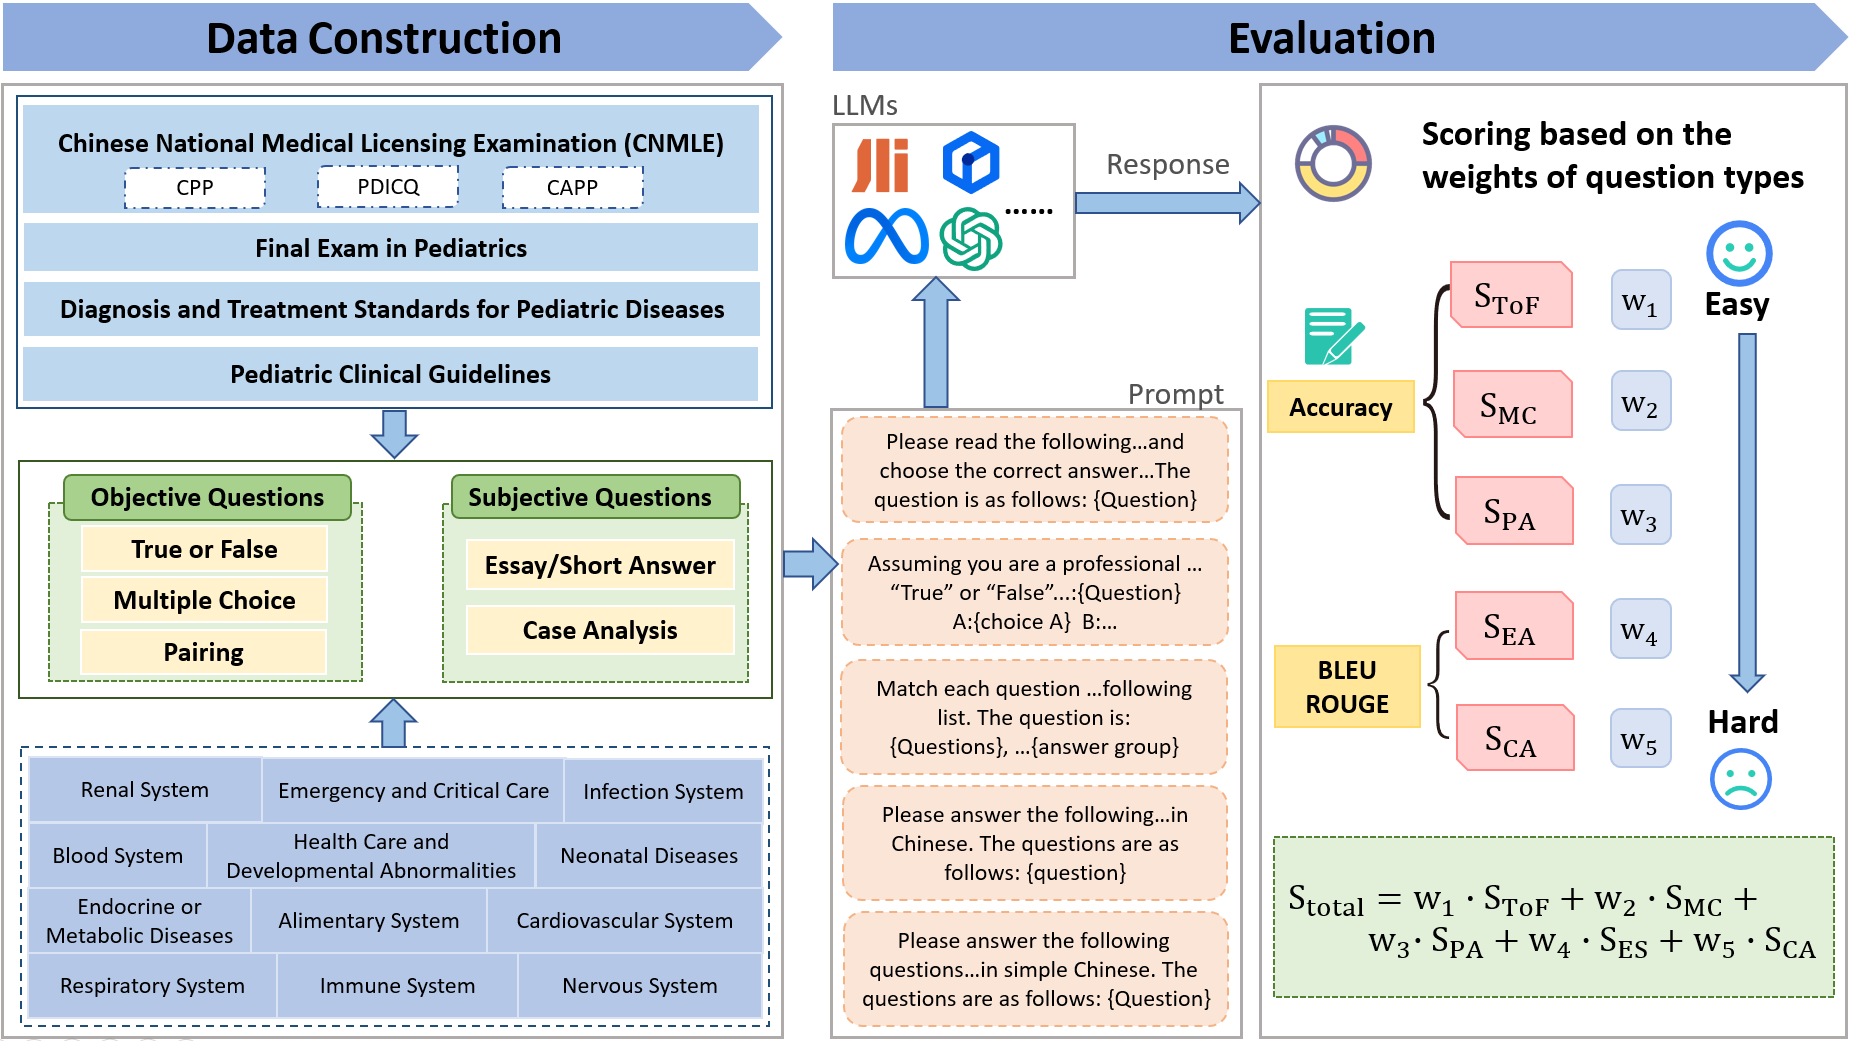
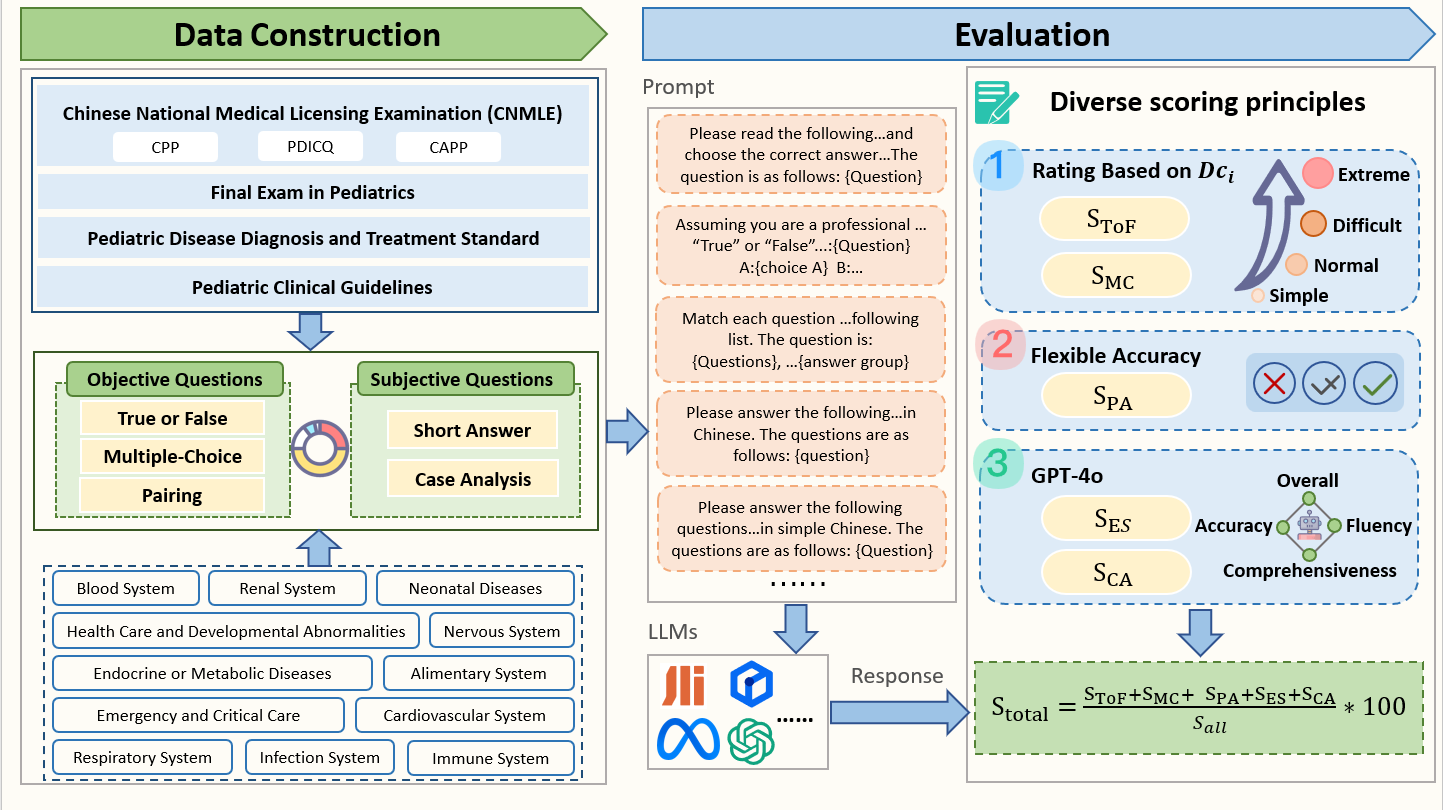
Update and publish to arxiv

diff --git a/README.md b/README.md
@@ -1,22 +1,99 @@
-# PediaBench
-## PediaBench: A Comprehensive Chinese Pediatric Dataset for Benchmarking Large Language Models
-![image](https://github.com/ACMISLab/PediaBench/blob/main/overview.png)
-PediaBench is the first comprehensive Chinese pediatric dataset designed to evaluate the performance of large language models (LLMs) in the medical field, particularly in pediatric question answering (QA). The dataset comprises both objective and subjective questions covering a wide range of pediatric diseases and assesses the models' capabilities in instruction following, knowledge understanding, and clinical case analysis.
+# PediaBench: A Comprehensive Chinese Pediatric Dataset for Benchmarking Large Language Models
 
-## Dataset Features
-- Diverse Types of Questions : Includes 4,565 objective questions and 1,632 subjective questions spanning 12 pediatric disease groups.
-- Comprehensive Scoring Criteria: Assesses LLMs' proficiency based on five question types.
+
+
+
+
+
+<p align="center">
+<a href="https://github.com/SJTU-LIT/ceval/blob/main/README.md">English | <a href="https://github.com/SJTU-LIT/ceval/blob/main/README_zh.md">中文</a>
+</p>
+
+
+## 1. Introduction
+
+PediaBench is the first comprehensive Chinese pediatric dataset designed to evaluate the performance of large language models (LLMs) in the medical field, particularly in pediatric question answering (QA). 
+
+It comprises 4,565 objective and 1,632 subjective questions sourced from diverse channels, covering five distinct question types across 12 typical pediatric disease groups, as shown below. If you would like to learn more details, please check our [paper](https://arxiv.org/abs/xxxx).
+
+![image](https://github.com/ACMISLab/PediaBench/blob/main/overview.png)
+
+## 2.Dataset 
+### 2.1 Types of Questions
+To assess how well an LLM can serve as an AI assistant for pediatricians, PediaBench incorporates the following five typical types of medical questions for evaluation:
+
+- **True or False (ToF)**: This type of question asks whether a statement is factual. It requires an LLM to match the statement with its corresponding concepts and facts in the corpus, to understand their semantic meanings, and to reason about them so as to detect possible errors and contradictions.
+- **Multiple Choice (MC)**: This type of question asks for the selection of one (or more) appropriate choices from multiple candidates to complete a sentence or answer a question. It requires an LLM to distinguish between similar or related concepts. Some questions also evaluate the mathematical and logical skills of an LLM, as basic calculations are essential to obtain the correct answer.
+- **Pairing (PA)**: This type of question requires exactly matching all sentences with their corresponding missing words from the candidate list. Distinguishing among similar concepts is also essential for PA. However, since any mismatch leads to an entirely erroneous answer, PA is even more challenging than MC.
+- **Essay/Short Answer (ES)**: This type of question asks one to elaborate on a specific concept. It requires an LLM to generate coherent and accurate text relevant to the concept.
+- **Case Analysis (CA)**: This type of question presents an LLM with a description of a particular instance and asks the LLM to make a medical diagnosis and provide treatment measures. It can comprehensively evaluate the medical capacity of an LLM in terms of comprehension, reasoning, and problem-solving.
+
+![image](https://github.com/ACMISLab/PediaBench/blob/main/question-types.png)
+
+### 2.2 Dataset Statistics
+The PediaBench dataset consists of 5,749 questions, including 258 true-or-false questions, 3,576 multiple-choice questions, 283 pairing questions, 1,565 essay/short-answer questions, and 67 case analysis questions.
+
+Referring to the International Classification of Diseases (ICD-11) standard issued by the WHO, except for case analysis questions, the remaining 5,682 questions are organized into 12 distinct disease groups, namely, diseases of the renal system, emergency and critical care, diseases of the infection system, diseases of the blood system, diseases of the cardiovascular system, diseases of the immune system, diseases of the respiratory system, endocrine or metabolic diseases, health care and developmental abnormalities, neonatal diseases, diseases of the alimentary system, and diseases of the nervous system.
+
 
 ![image](https://github.com/ACMISLab/PediaBench/blob/main/data-example.png)
 
-## Usage Guide
+### 2.3 Evaluation Criteria
+**To provide an accurate evaluation of the performance of each LLM for QA in pediatrics, we use a scoring criterion that combines difficulty levels and automatic scoring.**
+
+- **For ToF and MC:** We use accuracy as a basic performance measure for each question. And design a scoring scheme based on difficulty coefficient to assess the overall performance of each LLM.
+All questions are then divided into four difficulty levels, namely **simple**, **normal**, **difficult**, and **extreme**
+
+- **For PA:** We use the following scoring rules: (1) A completely correct answer gets 3 points; (2) a partially correct answer gets 1 point; and (3) a completely incorrect answer does not get any points.
+
+
+- **For ES and CA:**They are open questions with no unique answers.
+CA is even harder than ES so we assign a weight of 5 to each ES question and 10 to each CA question.
+specially, we introduce an automated scoring scheme based on LLMs.
+We set up prompts for GPT-4o to act as a referee to rate the responses of all other LLMs. and quantify the agreement between the human and GPT-4o scoring results.
+
+
+The overall score of an LLM for all questions is the weighted sum of the scores of all correctly answered questions. The following is a statistics on the number of ToF and MC questions at different difficulty levels.
+
+![image](https://github.com/ACMISLab/PediaBench/blob/main/difficult-level.png)
+
+## 3. Experiment
+### 3.1 Main Results
+
+We validate PediaBench through experiments with 20 general-purpose and medical LLMs, including open-source and commercial models of various scales. A standardized prompt set was developed for all LLMs, and a zero-shot prompt setting was applied consistently across all experiments. The results for the overall performance of LLMs are shown below. BianQue-7B and QiZhenGPT-13B cannot correctly understand and follow the instructions for the objective questions, thus their scores are 0 for these types.
+
+![image](https://github.com/ACMISLab/PediaBench/blob/main/main-results.png)
+
+### 3.2 Results in different disease groups 
+In order to quantify the score, we calculated the proportion of LLMs' score based on the inconsistent number of questions and scores for each disease group. Most models achieve their highest scores in the two disease groups of HCDA of DImS.
+No models can perform well for subjective questions in all performance measures across different groups of diseases. 
+
+![image](https://github.com/ACMISLab/PediaBench/blob/main/disease-group-results.png)
+
+## 4. Usage Guide
 The pediabench dataset is located in the /data directory. After obtaining the model's responses, please compile the model's answers to the five question types into an xlsx file. Then, use the evaluation code to obtain the results.
 
-The xlsx file you need to submit should refer to the following file: samples.xlsx.
+The xlsx file you need to submit should refer to the following file: `samples.xlsx`.
 
 By running the evaluate code, you will receive an xlsx file containing scores for different question types across different disease groups, as well as a final weighted total score.
 
-Citation
-If you find the code and test set useful for your research, please consider citing
+## 5. Side notes
+### 5.1 Limilation
+Despite the abundance of pediatric questions in the PediaBench dataset, it still cannot encompass many pediatric diseases and their corresponding treatments in the real world.
+Therefore, the PediaBench dataset should be maintained with a continual effort for better coverage.
+Currently, PediaBench is focusing primarily on pediatrics. In future work, we plan to extend it to more medical departments.
+In addition, although the scoring method based on GPT-4o strongly correlates with human scoring, we cannot fully determine whether GPT-4o scoring tends towards a certain style, leading to potential biases. To address this issue, we will consider more rigorous scoring strategies in the future, such as using multiple LLMs for ensembling.
+### 5.2 Ethics in Data Collection
 
-**Citation to be added**
+All data sources we use to construct the PediaBench dataset are publicly available and free to use without copyright infringement. All questions in the PediaBench dataset have been appropriately anonymized so that they do not contain sensitive private information about patients. We do not foresee any other possible negative societal impacts of this work.
+
+
+## Citation
+If you find the code and test set useful for your research, please consider citing:
+
+     @article{Pediabench,
+      title={PediaBench: A Comprehensive Chinese Pediatric Dataset for Benchmarking Large Language Models},
+      author={Qian Zhang,Panfeng Chen,  Jiali Li, Linkun Feng, Shuyu Liu, Mei Chen, Hui Li, Yanhao Wang},
+      journal={arXiv preprint arXiv:xxxx},
+      year={2024}
+    }

diff --git a/README-ZH.md b/README-ZH.md
@@ -1,23 +1,101 @@
-# PediaBench
-**PediaBench：一个全面的中文儿科数据集，用于大型语言模型的基准测试**
-![image](https://github.com/ACMISLab/PediaBench/blob/main/overview.png)
-PediaBench是首个全面的中文儿科数据集，旨在评估大型语言模型（LLMs）在医学领域，特别是儿科问答（QA）中的性能。该数据集包含客观和主观问题，涵盖了广泛的儿科疾病，并评估模型在指令遵循、知识理解和临床案例分析方面的能力。
 
-## 数据特点
-- 多样的问题类型：包含4565个客观问题和1632个主观问题，跨越12个儿科疾病组。
-- 综合评分标准：基于五种问题类型评估LLMs的熟练程度。
+# PediaBench：一个全面的中文儿科数据集，用于大型语言模型的基准测试
+
+<p align="center">
+<a href="https://github.com/SJTU-LIT/ceval/blob/main/README.md">English | <a href="https://github.com/SJTU-LIT/ceval/blob/main/README_ZH.md">中文</a>
+</p>
+
+## 1.介绍
+
+PediaBench是首个全面的中国儿科数据集，旨在评估大型语言模型（LLM）在医学领域特别是在儿科问答（QA）方面的性能。
+它包括来自不同数据源的4565个客观问题和1632个主观问题，涵盖了12类典型儿科疾病组的五种不同问题类型，如下所示。如果您想了解更多细节，请查看我们的[论文](https://arxiv.org/abs/xxxx).
+
+![image](https://github.com/ACMISLab/PediaBench/blob/main/overview.png)
+
+
+## 2.数据集 
+### 2.1 问题类型
+为了评估LLMs在儿科领域的性能，PediaBench收集了以下五种类型的医学问题：
+
+- **判断题 (ToF)**：这类问题询问一段陈述是否属实。它要求LLMs将陈述与自身知识中相应的概念和事实相匹配，理解它们的语义含义，并给出这段表述正确或者错误的判断。
+- **多项选择题（MC）**：这类问题要求从多个选项中选择一个（或多个）合适的选项来完成一个句子或回答一个问题。它要求LLMs区分相似或相关的概念。有些问题还考察了LLMs的逻辑计算能力。
+- **配对题（PA）**：这类问题要求将所有句子与候选列表中全匹配，区分相似的概念。因为任何不匹配都会导致完全错误的答案，所以PA比MC更难。
+- **简答题（ES）**：这类问题要求人们详细阐述一个特定的概念。它要求LLMs生成与概念相关的连贯准确的文本。
+- **案例分析（CA）**：这类问题向LLMs给出一个特定病例的描述，要求LLMs进行医学诊断并提供治疗措施。它可以全面评估LLMs在理解、推理和解决问题方面的医疗能力。
+
+
+![image](https://github.com/ACMISLab/PediaBench/blob/main/question-types.png)
+
+
+
+###2.2数据统计
+PediaBench数据集包含5749个问题，其中包括258个判断题、3576个选择题、283个配对题、1565个简答题和67个案例分析题。
+
+根据世界卫生组织发布的国际疾病分类（ICD-11）标准，除病例分析问题外，其余5682个问题分为12个不同的疾病组，即肾系统疾病、急诊和重症监护、感染系统疾病、血液系统疾病、心血管系统疾病、免疫系统疾病、呼吸系统疾病、内分泌或代谢疾病、保健和发育异常、新生儿疾病、消化系统疾病和神经系统疾病。
+
 
 ![image](https://github.com/ACMISLab/PediaBench/blob/main/data-example.png)
 
-## 使用指南
-pediabench数据集位于/data目录中，在获取到模型的回答之后，请将模型对于五种题目的回答汇总于一个xlsx文件中，接着使用评估代码xx运行得到结果。
 
-您需要提交的xlsx文件应参照以下文件：samples.xlsx
+###2.3评估标准
+**为了准确评估儿科问答中每个LLM的表现，我们结合难度水平和自动评分构建了一套评分标准**
 
-通过evaluate代码，您将获得一个xlsx文件，其中包含不同题型在不同疾病组上的得分，以及最终加权得到的总分。
+- **对于ToF和MC：**我们将准确性作为每个问题的基本绩效衡量标准。并设计了一个基于难度系数的评分方案，然后将所有问题分为四个难度级别，即简单、正常、困难和超难。
+
+- **对于PA：**我们规定：（1）完全正确的答案得3分；（2） 部分正确的答案得1分；（3）完全错误的答案得0分。
+
+- **对于ES和CA：**它们是开放式问题，没有唯一的答案。CA比ES更难，因此为每个ES问题分配5个权重，为每个CA问题分配10个权重。基于LLMs的自动评分方案：为GPT-4o设置提示，让其充当裁判，对所有其他LLM的回答进行评分。并量化了人类和GPT-4o评分结果之间的一致性。
+
+
+LLMs得到的总分为正确回答问题的得分的总和。以下是不同难度级别的ToF和MC问题数量的统计数据。
+
+![image](https://github.com/ACMISLab/PediaBench/blob/main/difficult-level.png)
+
+
+## 3.实验
+### 3.1主要结果
+
+我们在20个通用和医学LLM上验证了PediaBench，其中包括各种规模的开源和商业模型。我们为所有LLM设置了标准化的提示集，并在所有实验中一致采用zero-shot。LLM的整体性能结果如下所示。BianQue-7B和QizhenGPT-13B不能正确理解和遵循客观题的回复要求，因此他们在这些类型中的得分为0。
+
+![image](https://github.com/ACMISLab/PediaBench/blob/main/main-results.png)
+
+### 3.2不同疾病组的结果
+我们给出了不同LLMs在不同疾病组上的分数，大多数模型在DImS的HCDA两个疾病组中得分较高。任何模型都不能很好地回答主观题。
+
+![image](https://github.com/ACMISLab/PediaBench/blob/main/disease-group-results.png)
+
+## 4.使用指南
+pediabench数据集位于`/data`目录中。在获得模型的答案后，请将模型对于五种类问题的回答编译成xlsx文件。然后使用评估代码获得结果。
+
+您需要提交的xlsx文件应该类似于`samples.xlsx`。
+
+通过运行评估代码，您将收到一个xlsx文件，其中包含不同疾病组不同问题类型的分数，以及最终的加权总分。
+
+
+## 5.其他
+### 5.1 限制
+- 尽管PediaBench数据集中有大量的儿科问题，但它仍然无法涵盖现实世界中的许多儿科疾病及其相应的治疗方法。
+因此，我们后续将持续维护和更新PediaBench数据集，以覆盖更广泛的疾病。
+- 目前PediaBench主要专注于儿科。在未来的工作中，我们计划将其扩展到更多的医疗科室。
+- 尽管基于GPT-4o的评分方法与人类评分存在较高的相关性，但我们无法完全确定GPT-4o评分是否倾向于某种风格，从而导致潜在的偏差。为了解决这个问题，我们将在未来考虑更严格的评分策略，例如使用多个LLM进行组合。
+### 5.2 伦理道德
+
+我们用于构建PediaBench数据集的所有数据源都是公开可用的，可以免费使用，不侵犯版权。PediaBench数据集中的所有问题都经过了适当的匿名处理，因此不包含有关患者的敏感私人信息。我们预计这项工作不会产生任何其他可能的负面社会影响。
+
+
+
 
 ## 引用
-如果您发现代码和测试集对您的研究有用，请考虑引用
-```
-**待添加引用**
-```
+如果您发现代码和测试集对您的研究有用，请考虑引用：
+
+     @article{Pediabench,
+      title={PediaBench: A Comprehensive Chinese Pediatric Dataset for Benchmarking Large Language Models},
+      author={Qian Zhang,Panfeng Chen,  Jiali Li, Linkun Feng, Shuyu Liu, Mei Chen, Hui Li, Yanhao Wang},
+      journal={arXiv preprint arXiv:xxxx},
+      year={2024}
+    }
+
+
+
+
+
